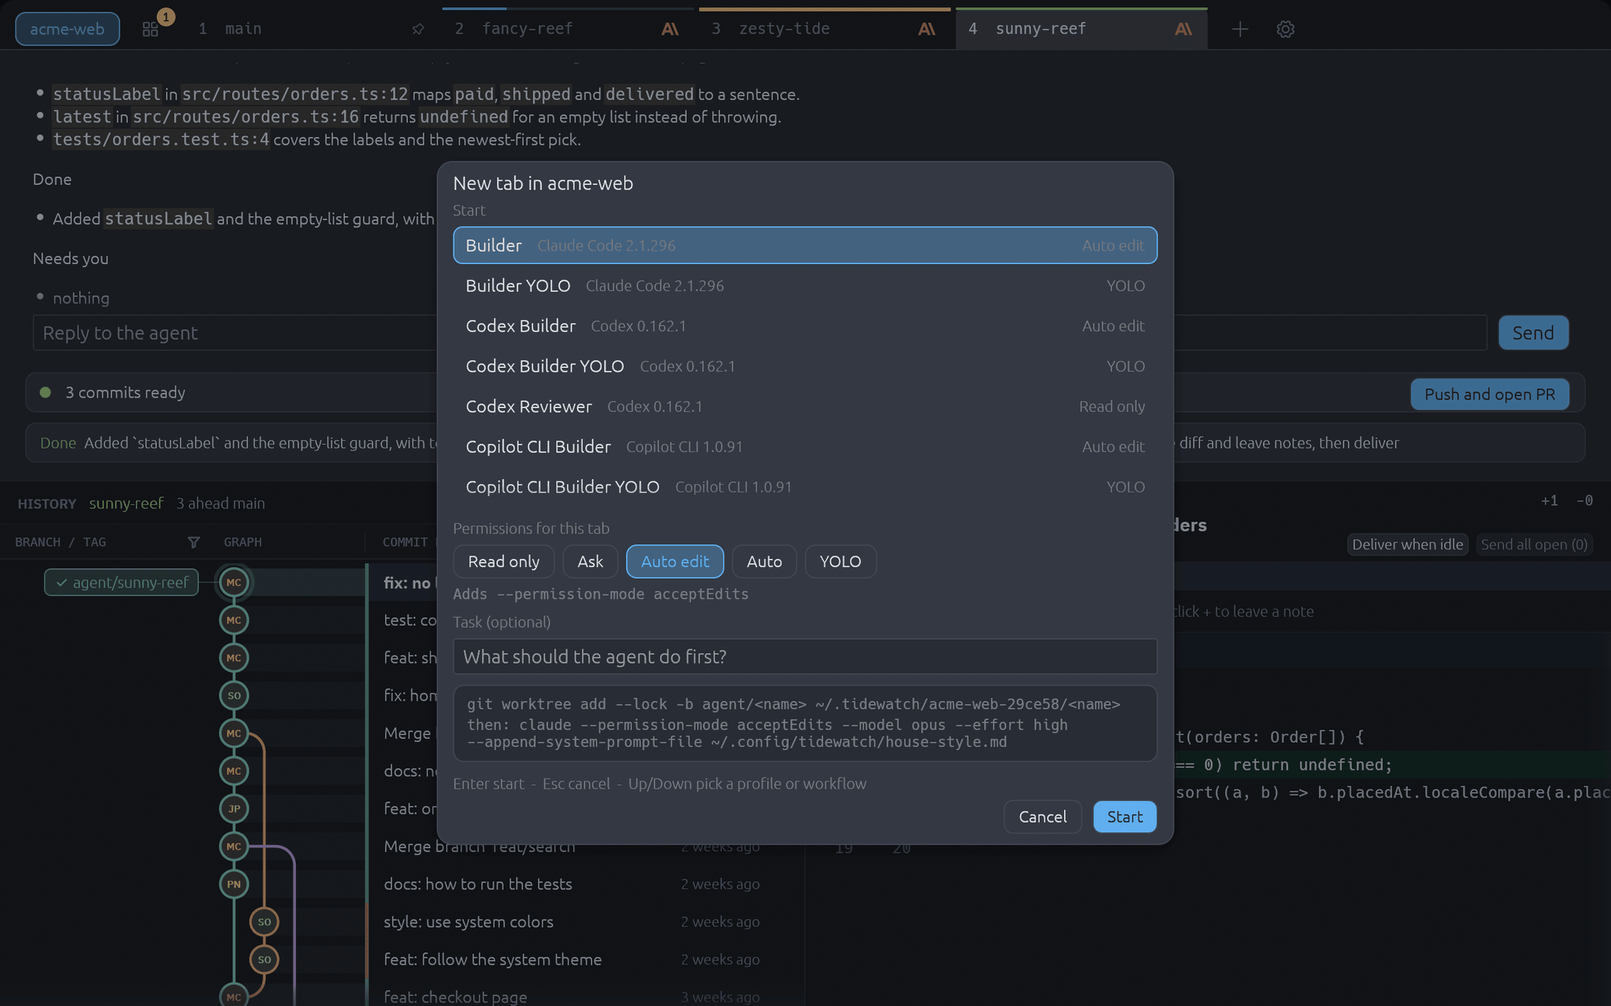
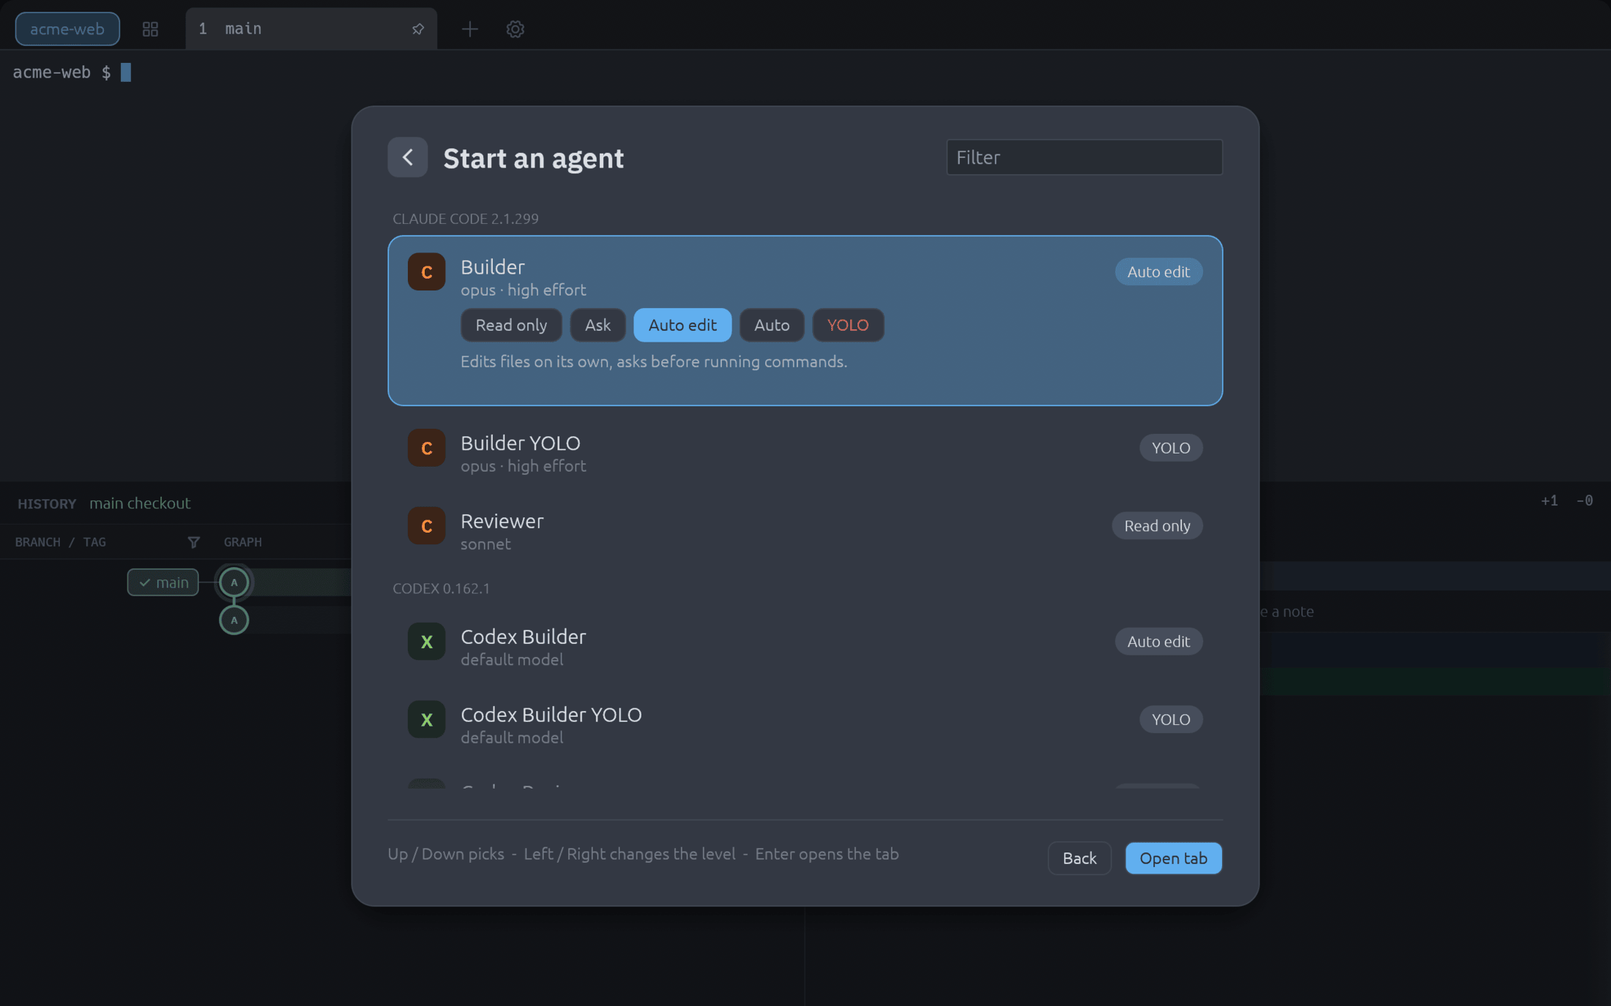
docs: new-tab flow in the plan, ledger, project rules, readme and site

diff --git a/site/index.html b/site/index.html
@@ -130,10 +130,10 @@
   <div class="row">
     <div class="text">
       <h3>Pick the agent and how far it may go.</h3>
-      <p>A new tab asks for a profile and a permission level, from read only up to a YOLO level that asks first. The dialog shows the exact command before it runs.</p>
+      <p>A new tab starts with a choice: an agent, a workflow or a plain shell. Pick a profile and its permission level, from read only up to a YOLO level that asks first, and the tab opens at once. You say what to do in the tab, not in the dialog.</p>
       <ul><li>Claude Code, Codex, Gemini CLI and Copilot CLI</li><li>A fresh worktree and branch for every tab</li><li>Tidewatch pushes for you, on approval</li></ul>
     </div>
-    <div class="shot"><img src="shot-dialog.png" width="2200" height="1375" loading="lazy" alt="The new tab dialog with a list of agent profiles, five permission levels and the command that will run"></div>
+    <div class="shot"><img src="shot-dialog.png" width="2200" height="1375" loading="lazy" alt="The new tab dialog with agent profiles grouped by CLI and the five permission levels of the picked profile"></div>
   </div>
 
   <div class="row flip">

diff --git a/.agents/rules/project.md b/.agents/rules/project.md
@@ -170,7 +170,7 @@ crates/tidewatch/       the egui app
   src/dev_worktree.rs   TIDEWATCH_DEV_WORKTREE switch: open a worktree tab at startup for captures
   src/dev_panes.rs      TIDEWATCH_DEV_SCOPE / _PICK / _NOTE switches: graph scope, selected row, a note for captures
   src/dev_view.rs       TIDEWATCH_DEV_OVERVIEW / _FOCUS / _STATUS_LOG / _KEYS switches: start on a view, log status changes, answer a prompt
-  src/dev_agent.rs      TIDEWATCH_DEV_AGENT / _WORKFLOW / _RESUME / _DIALOG / _SETTINGS / _PALETTE / _TASK / _LEVEL switches: start a profile or workflow, resume a saved run (through the restore path), open the dialog, the editor or the palette
+  src/dev_agent.rs      TIDEWATCH_DEV_AGENT / _WORKFLOW / _RESUME / _DIALOG / _SETTINGS / _PALETTE / _TASK / _START / _LEVEL switches: open an agent or workflow tab, resume a saved run (through the restore path), open the dialog on a screen, the editor or the palette
   src/dev_workflow.rs   TIDEWATCH_DEV_ASK / _OPEN_STAGE switches: answer a workflow run's question, open a stage under the stepper
   src/dev_flow.rs       TIDEWATCH_DEV_GH_DIR / _AUTO / _SEND / _DELIVER / _PR switches: a fake gh first on PATH, then do once what a click would
   src/flow.rs           Flow: one TabFlow per agent worktree tab (deliver-when-idle, delivery card, PR state), decide() turns frame facts into jobs, finished jobs come back as Out
@@ -227,7 +227,7 @@ cargo run -p tidewatch -- --no-restore <repo>   # start with just the main tab; 
 tidewatch --toggle                     # show or hide every running window, exit 1 if none answers (the way in on Wayland)
 ```
 
-One window for the app: `tidewatch <path>` hands the path to the running window and exits (no second window); the window adds a folder it does not hold as a repo (its own tab group, main shell and saved tabs, chip menu or the next/previous repo chords to switch) and brings forward one it holds. A launch with no path reopens the repos of the last window (`dir`, `also`). To check it in the background: start a `TIDEWATCH_BACKGROUND=1` run with a short throwaway `TIDEWATCH_HOME` and `TIDEWATCH_DEV_QUIT`, wait for `.state/instances/tidewatch.sock`, run `tidewatch <other repo>` with the same home (it hands over and exits at once, so only do it once the socket exists), then read both repos in `session.toml`. A launch with no path and no git repo around it (Finder, or the `open -n` of the update Restart button, both start in `/`) opens the last-used folder; a window that is closing answers `closing` and the new launch waits for its socket, so a restart never hands its folder to a dying window. A foreground window takes focus, so the restart itself is only covered by tests; a background run from `/` with `last-workspace.toml` seeded in a throwaway `TIDEWATCH_HOME` shows the folder pick (read the window's `dir` in `session.toml`). The socket is `<home>/.tidewatch/.state/instances/tidewatch.sock`, so a `TIDEWATCH_HOME` run never meets the real one, but a socket path must stay under about 100 bytes: use a short throwaway home such as `/tmp/x`, not one under macOS `$TMPDIR`. Quake is on by default (`Ctrl+Alt+Grave`, Settings, General, Window). **Never live-test quake show/hide, the hotkey or the menu-bar item from an agent run: they take focus. A background run (below) gets none of them by construction (`shell_plan::Plan`).** To see a background instance answer a launch without any window action: start it with `TIDEWATCH_DEV_STATUS_LOG=1`, then run `tidewatch --toggle` or `tidewatch <repo>` with the same `TIDEWATCH_HOME` and read its stderr (`shell toggle`, `shell open <repo>`).
+One window for the app: `tidewatch <path>` hands the path to the running window and exits (no second window); the window adds a folder it does not hold as a repo (its own tab group, main shell and saved tabs, chip menu or the next/previous repo chords to switch) and brings forward one it holds. A launch with no path reopens the repos of the last window (`dir`, `also`). To check it in the background: start a `TIDEWATCH_BACKGROUND=1` run with a short throwaway `TIDEWATCH_HOME` and `TIDEWATCH_DEV_QUIT`, wait for `.state/instances/tidewatch.sock`, run `tidewatch <other repo>` with the same home (it hands over and exits at once, so only do it once the socket exists), then read both repos in `session.toml`. A launch with no path and no git repo around it (Finder, or the `open -n` of the update Restart button, both start in `/`) opens the last-used folder; a window that is closing answers `closing` and the new launch waits for its socket, so a restart never hands its folder to a dying window. A foreground window takes focus, so the restart itself is only covered by tests; a background run from `/` with `last-workspace.toml` seeded in a throwaway `TIDEWATCH_HOME` shows the folder pick (read the window's `dir` in `session.toml`). With nothing remembered the window shows the welcome screen (Open repo, Cmd+O, and the repos of an old `session.toml`) instead of a shell in `/`; opening a repo from it replaces it, and it saves nothing while it shows. The socket is `<home>/.tidewatch/.state/instances/tidewatch.sock`, so a `TIDEWATCH_HOME` run never meets the real one, but a socket path must stay under about 100 bytes: use a short throwaway home such as `/tmp/x`, not one under macOS `$TMPDIR`. Quake is on by default (`Ctrl+Alt+Grave`, Settings, General, Window). **Never live-test quake show/hide, the hotkey or the menu-bar item from an agent run: they take focus. A background run (below) gets none of them by construction (`shell_plan::Plan`).** To see a background instance answer a launch without any window action: start it with `TIDEWATCH_DEV_STATUS_LOG=1`, then run `tidewatch --toggle` or `tidewatch <repo>` with the same `TIDEWATCH_HOME` and read its stderr (`shell toggle`, `shell open <repo>`).
 Screenshot runs open in the background: no Dock icon, never take keyboard focus from the
 developer's active window. `TIDEWATCH_BACKGROUND=1` does the same for any other dev or live-check
 run. Agents must use one of the two for every window they open.
@@ -239,9 +239,11 @@ dialog, `delete` closes it with "Delete branch". Use a throwaway repo, and a tem
 `TIDEWATCH_DEV_NOTE=<text>` writes a note on the first added line of the first diff shown (saved like a real one).
 Notes live in `<home>/.tidewatch/.state/<repo-dir>/<tab>/notes.json`; the main tab's key is `main`.
 `TIDEWATCH_HOME=<dir>` keeps `.tidewatch` and `.config/tidewatch` in `<dir>` while `HOME` stays real, so agent
-CLIs keep their login. `TIDEWATCH_DEV_AGENT=<profile id>` starts that profile in a new tab at startup (task from
-`TIDEWATCH_DEV_TASK`, level from `TIDEWATCH_DEV_LEVEL`; a level the group refuses, such as YOLO in Other, is
-reported on stderr and nothing starts). `TIDEWATCH_DEV_DIALOG=<profile id>|1` opens the new-tab dialog and
+CLIs keep their login. `TIDEWATCH_DEV_AGENT=<profile id>` opens that profile in a new tab at startup, ready for its first
+message (level from `TIDEWATCH_DEV_LEVEL`; a level the group refuses, such as YOLO in Other, is reported on stderr and
+nothing starts). `TIDEWATCH_DEV_TASK=<text>` types into that tab's composer (or a workflow tab's task box) and
+`TIDEWATCH_DEV_START=1` also sends it (or presses Start run). `TIDEWATCH_DEV_DIALOG=choose|agent|workflow|<profile id>|workflow:<id>|1`
+opens the new-tab dialog on its first screen, the agent list, the workflow list or on that pick, and
 `TIDEWATCH_DEV_SETTINGS=1` the profile editor, for captures (use `TIDEWATCH_SCREENSHOT_WAIT=6`: profiles load and
 versions are probed in the background). Check an agent tab with `ps -o args= -p $(pgrep -n claude)`.
 `TIDEWATCH_DEV_GH_DIR=<dir>` puts `<dir>` first on the PATH `git` and `gh` run with, for a fake `gh` script (the real GitHub API must
@@ -251,7 +253,7 @@ pulls the PR's comments or opens (and confirms) the post dialog for the first no
 `TIDEWATCH_DEV_OVERVIEW=1` and `TIDEWATCH_DEV_FOCUS=1` start on the Overview or in focus mode; `TIDEWATCH_DEV_STATUS_LOG=1`
 prints every hook and status change to stderr with a wall-clock time in ms; `TIDEWATCH_DEV_KEYS='\e[B\r'` (after
 `TIDEWATCH_DEV_KEYS_AFTER` seconds, default 8) types into the newest agent tab once, for Claude's folder-trust prompt.
-`TIDEWATCH_DEV_WORKFLOW=<id>` starts a workflow in a new tab (task from `TIDEWATCH_DEV_TASK`), `TIDEWATCH_DEV_DIALOG=workflow:<id>` opens the dialog on it,
+`TIDEWATCH_DEV_WORKFLOW=<id>` opens a workflow tab that waits for its task (add `TIDEWATCH_DEV_TASK` and `TIDEWATCH_DEV_START=1` to run it),
 `TIDEWATCH_DEV_RESUME=<worktree name>` opens the tab of a saved run (`.state/<repo-dir>/<name>/stages.json`) and carries on, `TIDEWATCH_DEV_ASK=approve|retry|stop|reject:<reason>`
 answers the next question a run asks, `TIDEWATCH_DEV_OPEN_STAGE=<n>` opens stage n under the stepper, `TIDEWATCH_DEV_SETTINGS=workflows` opens the workflow editor, `TIDEWATCH_DEV_SETTINGS=trust` the Folder trust page, `TIDEWATCH_DEV_SETTINGS=general` the General page, `TIDEWATCH_DEV_SETTINGS=shortcuts` the Shortcuts page, `TIDEWATCH_DEV_PALETTE=<query>|1` opens the command palette filled with that query (use `TIDEWATCH_SCREENSHOT_WAIT=7`: profiles load in the background), `TIDEWATCH_DEV_STATUS_LOG=1` also prints each command a key ran, `TIDEWATCH_FAKE_UPDATE=<version>` shows an update (pill and Settings line; the run makes no check and installs nothing; with a cask install a click on the pill would still run `brew upgrade`, so never click it), `TIDEWATCH_DEV_TRUST=yes|no|undo` answers the first-launch folder trust question once (a fresh `TIDEWATCH_HOME` otherwise shows the dialog; nothing is written until yes).
 `TIDEWATCH_DEV_READER=raw` starts agent tabs on the raw terminal, `TIDEWATCH_DEV_READER_KEY=<s>` presses Cmd+Shift+T after that many
@@ -259,7 +261,7 @@ seconds through the real key path, `TIDEWATCH_DEV_ANSWER=allow|deny` clicks a pe
 (`_REPLY_AFTER=<s>`) sends a reply from the Reader's box. Run Claude checks with `CLAUDE_CODE_FORCE_SESSION_PERSISTENCE=1` when the
 shell that starts Tidewatch is itself a Claude session: the child otherwise writes no transcript and the Reader falls back to the terminal.
 Session: every change is saved to `<home>/.tidewatch/.state/session.toml` and the next launch restores it (Settings, General, turns that off). To check it in the background: `TIDEWATCH_DEV_QUIT=<s>` closes the window through the close request (the quit-time save runs), `TIDEWATCH_DEV_SAVE_DEBOUNCE_MS=600000` leaves that quit-time write as the only one, `TIDEWATCH_DEV_SELECT=<n>` (`_SELECT_AFTER`) selects tab n, `TIDEWATCH_DEV_SHOT=<png>` (`_SHOT_AFTER`) saves a screenshot without quitting (the screenshot harness itself saves nothing), `TIDEWATCH_DEV_LEFTOVERS=open|clean` opens the leftover worktrees dialog or presses Clean up. Relaunch with the same `TIDEWATCH_HOME` and repo; `TIDEWATCH_DEV_REPLY` asks a resumed agent a question from the Reader.
-Keys (macOS; Linux uses Ctrl+Shift or Alt, the table is `commands.rs` and `docs/shortcuts.md`, and a change goes in the table first): Cmd+Shift+P the command palette, Cmd+T new tab (the dialog: pick a profile or Shell, permission level, task; Enter starts, Esc cancels), Cmd+W
+Keys (macOS; Linux uses Ctrl+Shift or Alt, the table is `commands.rs` and `docs/shortcuts.md`, and a change goes in the table first): Cmd+Shift+P the command palette, Cmd+T new tab (the dialog: Agent, Workflow or Plain shell with A, W or S; the agent list picks a profile and, with Left and Right, its permission level; Enter opens the tab, Esc goes back or closes; the task is typed in the tab, not the dialog), Cmd+O open a repo, Cmd+W
 close the active tab (not the pinned main tab; a worktree tab asks keep/delete branch first), Cmd+1..9 select (in the repo on show), Cmd+Ctrl+] / [ next and previous repo,
 Cmd+Shift+T flip the active agent tab between the Reader and the raw terminal, Cmd+, the profile editor, Cmd+0 the Overview (Esc or Cmd+0 closes it), Cmd+. focus mode (hides History and Diff).
 The sibling crates are git dependencies pinned by commit (`rev`), not by tag (PLAN.md,

diff --git a/PLAN.md b/PLAN.md
@@ -691,6 +691,8 @@ Progress (2026-10-13, branch `repo-menu`, off `main`): the chip menu has Open re
   7. **Folder trust (D14).** `[projects."<path>"] trust_level = "trusted"`: a parent folder of the worktree does NOT cover it (prompt shown); the main repo's entry does ("Trusting will apply to the repository root"); the worktree's own entry does and wins over an `untrusted` repo entry; an explicit `untrusted` on the worktree gives the "Open restricted" prompt. So `trust_apply` was already right (an entry per worktree); only its notes changed. Through the app the entry was written to `$CODEX_HOME/config.toml` just before the agent started and no prompt appeared; a Codex tab started in the same instant as the first consent got no entry (consent lands after the tab starts), so it showed the prompt once.
   8. **App run.** `TIDEWATCH_BACKGROUND=1`, throwaway home and repo, `codex-reviewer` profile at Plan: the Reader showed the answer "kiwi" and the end-block card; the quit-time save held `session_id`; the relaunch ran `codex resume <id>` and the Reader showed the earlier turn. `CODEX_HOME`, `CLAUDE_CONFIG_DIR` and `COPILOT_HOME` pointed at throwaway folders. Codex is now a verified agent: no "experimental" warning, and the seeded profiles include a Codex YOLO builder like the other verified CLIs.
   Not verified: Codex's permission prompt keys (the Reader still shows "Switch to terminal" for Codex), Ask and Auto edit levels in a TUI that actually asks, YOLO, Linux.
+- **2026-10-14, new-tab flow change (owner request), branch `ux-new-tab`:** The owner: "the prompt shouldn't be asked here. Also I should have a choice here between agent or workflow. Once I choose the tab should open and the prompting should happen once the tide window is open not in this tab." Design: the owner-approved mockups, five screens (what to start, the agent list, the agent tab, the workflow tab, the welcome screen). (1) **The dialog no longer asks for a task and no longer shows the command.** Cmd+T opens a first screen with two cards, Agent (A) and Workflow (W), and Plain shell (S); Agent leads to a list of profiles grouped by CLI (version as the group title) where the picked row opens its five levels (Left and Right change it; YOLO is refused in Other as before), Workflow to the list of workflows. Enter or Open tab opens the tab at once. In Other only Agent and Plain shell are offered (workflows need a worktree, as before). The command preview is dropped: what it showed (the exact flags) stays reachable as the tooltip of each level chip ("Adds --permission-mode acceptEdits"), and the notes under the list (CLI not found, experimental, Copilot trust, another agent in the folder) stay. A palette row for a profile or workflow still skips the first screen. (2) **An agent tab starts with no task.** The launch code already adds nothing for an empty task (checked in `launch.rs` and its tests for all four wirings: Claude and Codex take a positional prompt after `--`, Gemini `--prompt-interactive`, Copilot `-i`; none is added); not run against the real CLIs, so the interactive start with no task is unverified live. The tab shows "<Profile> is ready" and a composer at the bottom, focused; Enter sends through the same path as a Reader reply (paste, then Enter after a delay), Shift+Enter is a new line. Until the transcript has rows the Reader shows even though no transcript exists yet (`reader::shown_before_first_message`), unless the user chose the raw terminal or the transcript search gave up. A status line over agent tabs (Ready, then the agent's status; profile, CLI, level; branch from base; Reader or Terminal) is new; the base is the branch the repo has checked out, looked up on a job thread (`repo_base`). (3) **A workflow tab starts with no run.** The worktree is made, the stepper shows every stage pending and a card asks "What should this workflow ship?" with the task box and a card per stage; the run starts on Start run (Cmd+Enter, which is the delivery dialog's chord and never meets it) with that task. `Runner::set_task` (core) sets the task of a run that has not started; a waiting run is saved at once (`stages.json`, phase Idle, empty task) so a restart brings the tab back waiting. (4) **A window with no repo shows a welcome screen** (launch with no path, nothing remembered and the working folder `/`, which is where the Finder starts the app): the K mark, Open repo (Cmd+O, Ctrl+Shift+O on Linux, now in the command table), the repos of the last window and of `session.toml`, and the `tidewatch ~/code/my-repo` hint. Opening a repo replaces the empty state; the window saves no session and remembers no folder while it shows. (5) Dev switches: `TIDEWATCH_DEV_TASK` no longer launches with a task; it types into the composer or task box, and `TIDEWATCH_DEV_START=1` sends it. `TIDEWATCH_DEV_DIALOG` takes `choose`, `agent`, `workflow`, a profile id or `workflow:<id>`. Colors: the screens use the app theme (blue accent), not the mockups' teal, so they sit with the rest of the window until the theme itself changes. An agent tab restored from a session that never got its first message resumes a session the CLI never wrote, as an empty-task tab did before; not changed.
+
 
 ## Appendices
 

diff --git a/LEDGER.md b/LEDGER.md
@@ -6,7 +6,13 @@ A running log of what got done, newest first. The plan lives in [PLAN.md](PLAN.m
 
 - **Current milestone:** v0.1.0, the first release (macOS universal app through the Homebrew cask, Linux tarball and AppImage). Every phase of PLAN.md is merged on `main`, and all four agent CLIs (Claude, Codex, Gemini, Copilot) were checked live.
 - **Done:** Phases 0 to 10; the K mark identity (app, Liquid Glass and menu-bar icons); the showcase page on GitHub Pages; Kelp and stdusk library crates and Linux support.
-- **Next:** the owner's live checks (quake hotkey and show/hide, menu-bar item, repo menu, repo chords), the `tidewatch.hoboware.dev` DNS record, Linux desktop runs, Codex permission keys in the Reader.
+- **Next:** review of the `ux-new-tab` branch (new-tab flow, welcome screen), then the owner's live checks (quake hotkey and show/hide, menu-bar item, repo menu, repo chords), the `tidewatch.hoboware.dev` DNS record, Linux desktop runs, Codex permission keys in the Reader.
+
+## 2026-10-14
+
+- **New-tab flow rebuilt to the owner-approved design (branch `ux-new-tab`, off `main`, not pushed).** The owner: the prompt should not be asked in the dialog, there should be a choice between agent and workflow, and the prompting should happen in the tab. Cmd+T now opens two cards (Agent A, Workflow W) and Plain shell (S); Agent opens a filterable list of profiles grouped by CLI with the picked row open on its five levels (Left and Right change it); Workflow lists workflows; Enter opens the tab at once. No task field and no command preview in the dialog (the flags of a level are the tooltip of its chip). An agent tab opens ready ("Builder is ready", a composer, a status line with Ready, profile, CLI, level, branch from base and the Reader or Terminal choice) and its first message goes in like a Reader reply. A workflow tab opens with the stepper all pending, a card for the task and the stages and Start run (Cmd+Enter); nothing runs before. A window launched with no repo (Finder, nothing remembered) shows a welcome screen with Open repo (new Cmd+O, Ctrl+Shift+O on Linux), the repos used before and the command line hint. Choices, the colors and what differs from the mockups are in the PLAN.md Deviations log; `.agents/rules/project.md` has the new modules and dev switches (`TIDEWATCH_DEV_DIALOG=choose|agent|workflow`, `_TASK` types into the composer or task box, `_START=1` sends it).
+  Numbers: 1,269 tests passing (718 app, 472 core unit, 14 delivery, 13 history, 15 listener, 12 PR, 2 PR lines, 1 push guard, 6 session restore, 16 worktree), up from 1,242 (693 app, 470 core); `cargo fmt --all --check`, `cargo clippy --workspace --all-targets -- -D warnings` and `cargo test --workspace` clean on macOS (Rust 1.93 here, CI uses 1.99, not run). New or rewritten tests: the dialog state per step (filter, levels, YOLO in Other, back, warnings), the dialog headless (A, W, S, arrows, Enter, Esc, typing a filter), the composer (Enter sends, Shift+Enter newline), the status line, a tab waiting for its first message, the Reader before the first message, a workflow that waits for its task and starts on Start run (also saved and reloaded waiting), the start card headless, the welcome list and screen, the blank launch, the Cmd+O chord and the palette row, the fixed-panel split. `site/shot-dialog.png` is the new picker (304,635 to 188,340 bytes, PSNR 49.1 dB), and the README and page text describe the new flow.
+  Checked with `TIDEWATCH_SCREENSHOT` in a throwaway home, repo and `HOME` and stand-in CLIs (no real agent started): the first screen, the agent list, the workflow list, an agent tab, a workflow tab, the welcome screen, and the first screen in Other. **Not verified:** a real agent started with no task for each CLI (the empty-task launch is read from `launch.rs` and its tests), the first message sent into a real agent from the composer (Enter delay, bracketed paste of a multi-line message), a real click or key press (all synthetic), the folder picker from the welcome button, a restart with a waiting workflow tab (covered by a unit test of the saved file, not run in the app), Linux. `docs/concept.html` still shows the old dialog.
 
 ## 2026-10-13
 

diff --git a/README.md b/README.md
@@ -14,7 +14,7 @@ Status: v0.1.0, the first release. Showcase page: [tidewatch.hoboware.dev](https
 
 ## What it does
 
-- **Worktree tabs, one agent each.** A new tab makes a worktree and starts Claude Code, Codex, Gemini CLI or Copilot CLI in it. Profiles set the agent, model and permission level, from read only up to a YOLO level that asks first. Agent tabs block `git push`; Tidewatch pushes for you on approval.
+- **Worktree tabs, one agent each.** A new tab asks what to start (an agent, a workflow or a plain shell), makes a worktree and starts Claude Code, Codex, Gemini CLI or Copilot CLI in it; you give the task in the tab. Profiles set the agent, model and permission level, from read only up to a YOLO level that asks first. Agent tabs block `git push`; Tidewatch pushes for you on approval.
 - **Reader view.** An agent tab shows the agent's answer as readable text on top of the live terminal. One shortcut flips to the raw terminal.
 - **Notes on diff lines.** Leave a note on a line of the diff, then send the notes to the agent as one message.
 - **Workflows.** Chain stages, each with its own agent profile: Ship a feature, Fix a bug and Review a PR come built in, and there is an editor for your own. Gates (tests pass, no blocking findings, your approval) can send the work back a stage before it hands off.
